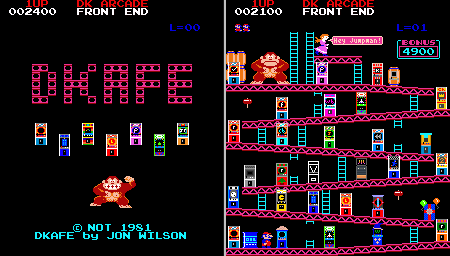
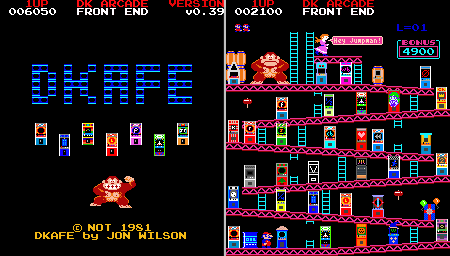
Troubleshooting and minor artwork update

diff --git a/readme.md b/readme.md
@@ -12,7 +12,7 @@ A very short video review - https://www.youtube.com/shorts/_RtjCKfJuoo
 
 ## Get DKAFE for your system
 
-The latest releases are available to download from below.  Refer to the **How to Install** section.
+The latest releases are available to download from below.  Refer to the **How to Install** and **Troubleshooting** sections.
 
 | Download Link                                                                                                        | Version | Operating System                          |
 | -------------------------------------------------------------------------------------------------------------------- | ------- | ------------------------------------------|
@@ -33,7 +33,7 @@ The built-in reward system will payout coins when you play well.  Earning coins 
 Coins are awarded after beating target scores (for 3rd, 2nd and 1st prize).  Coins will drop from the top of the screen (after returning to the frontend) and Jumpman must do his best to collect them before they disappear off the bottom.
 
 
-[DKAFE awards](https://github.com/10yard/dkafe/blob/master/artwork/about/awards.png) 
+![DKAFE awards](https://github.com/10yard/dkafe/blob/master/artwork/about/awards.png) 
 
 
 Pauline helps out by providing game information, score targets and unlock requirements as you walk towards an arcade machine.  
@@ -523,9 +523,20 @@ DKAFE is a free, open source, cross-platform front-end for emulators.
 It is licensed under GNU GPLv3. 
 
 
+## Troubleshooting
+
+#### A game fails to launch in MAME, and you get a black screen (on Windows)
+
+In the settings.txt file,  change `OPTIONS` under the emulator settings to use `gdi` instead of `opengl` i.e.
+```OPTIONS = -rompath <ROM_DIR> -view "Screen 0 Pixel Aspect (7:8)" -nofilter -video gdi```
+
+Also, check that the DKAFE folder is granted full permissions.
+
+
 ## Feedback
 
 Please send feedback to jon123wilson@hotmail.com
+
 
 Jon
 
